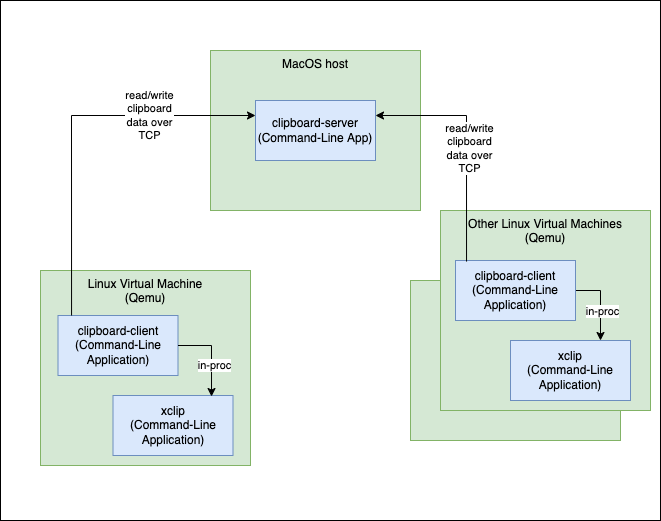
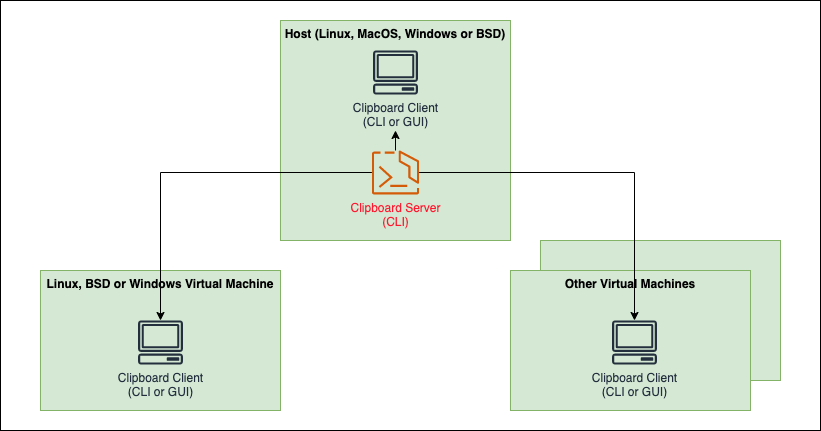
Code cleanup and docs updates
- Update overview diagram
- Update README
- Minor code cleanup

diff --git a/rclip-server/src/main.rs b/rclip-server/src/main.rs
@@ -59,9 +59,15 @@ async fn main() -> Result<(), Box<dyn std::error::Error>> {
                 let mut buf_vec = vec![0; BUFFER_CAP];
                 let bytes_read = match reader.read(&mut buf_vec).await {
                     Ok(n) => {
-                        let data = String::from_utf8(buf_vec[0..n].to_vec());
-                        request.extend(data);
-                        n
+                        match String::from_utf8(buf_vec[0..n].to_vec()) {
+                            Ok(data) => {
+                                request.push_str(&data);
+                                n
+                            },
+                            Err(e) => {
+                                return Err(format!("Failed to decode response; err = {}", e.to_string()).into());
+                            }
+                        }
                     },
                     Err(e) => {
                         return Err(format!("Failed to read from socket; err = {}", e.to_string()).into());
